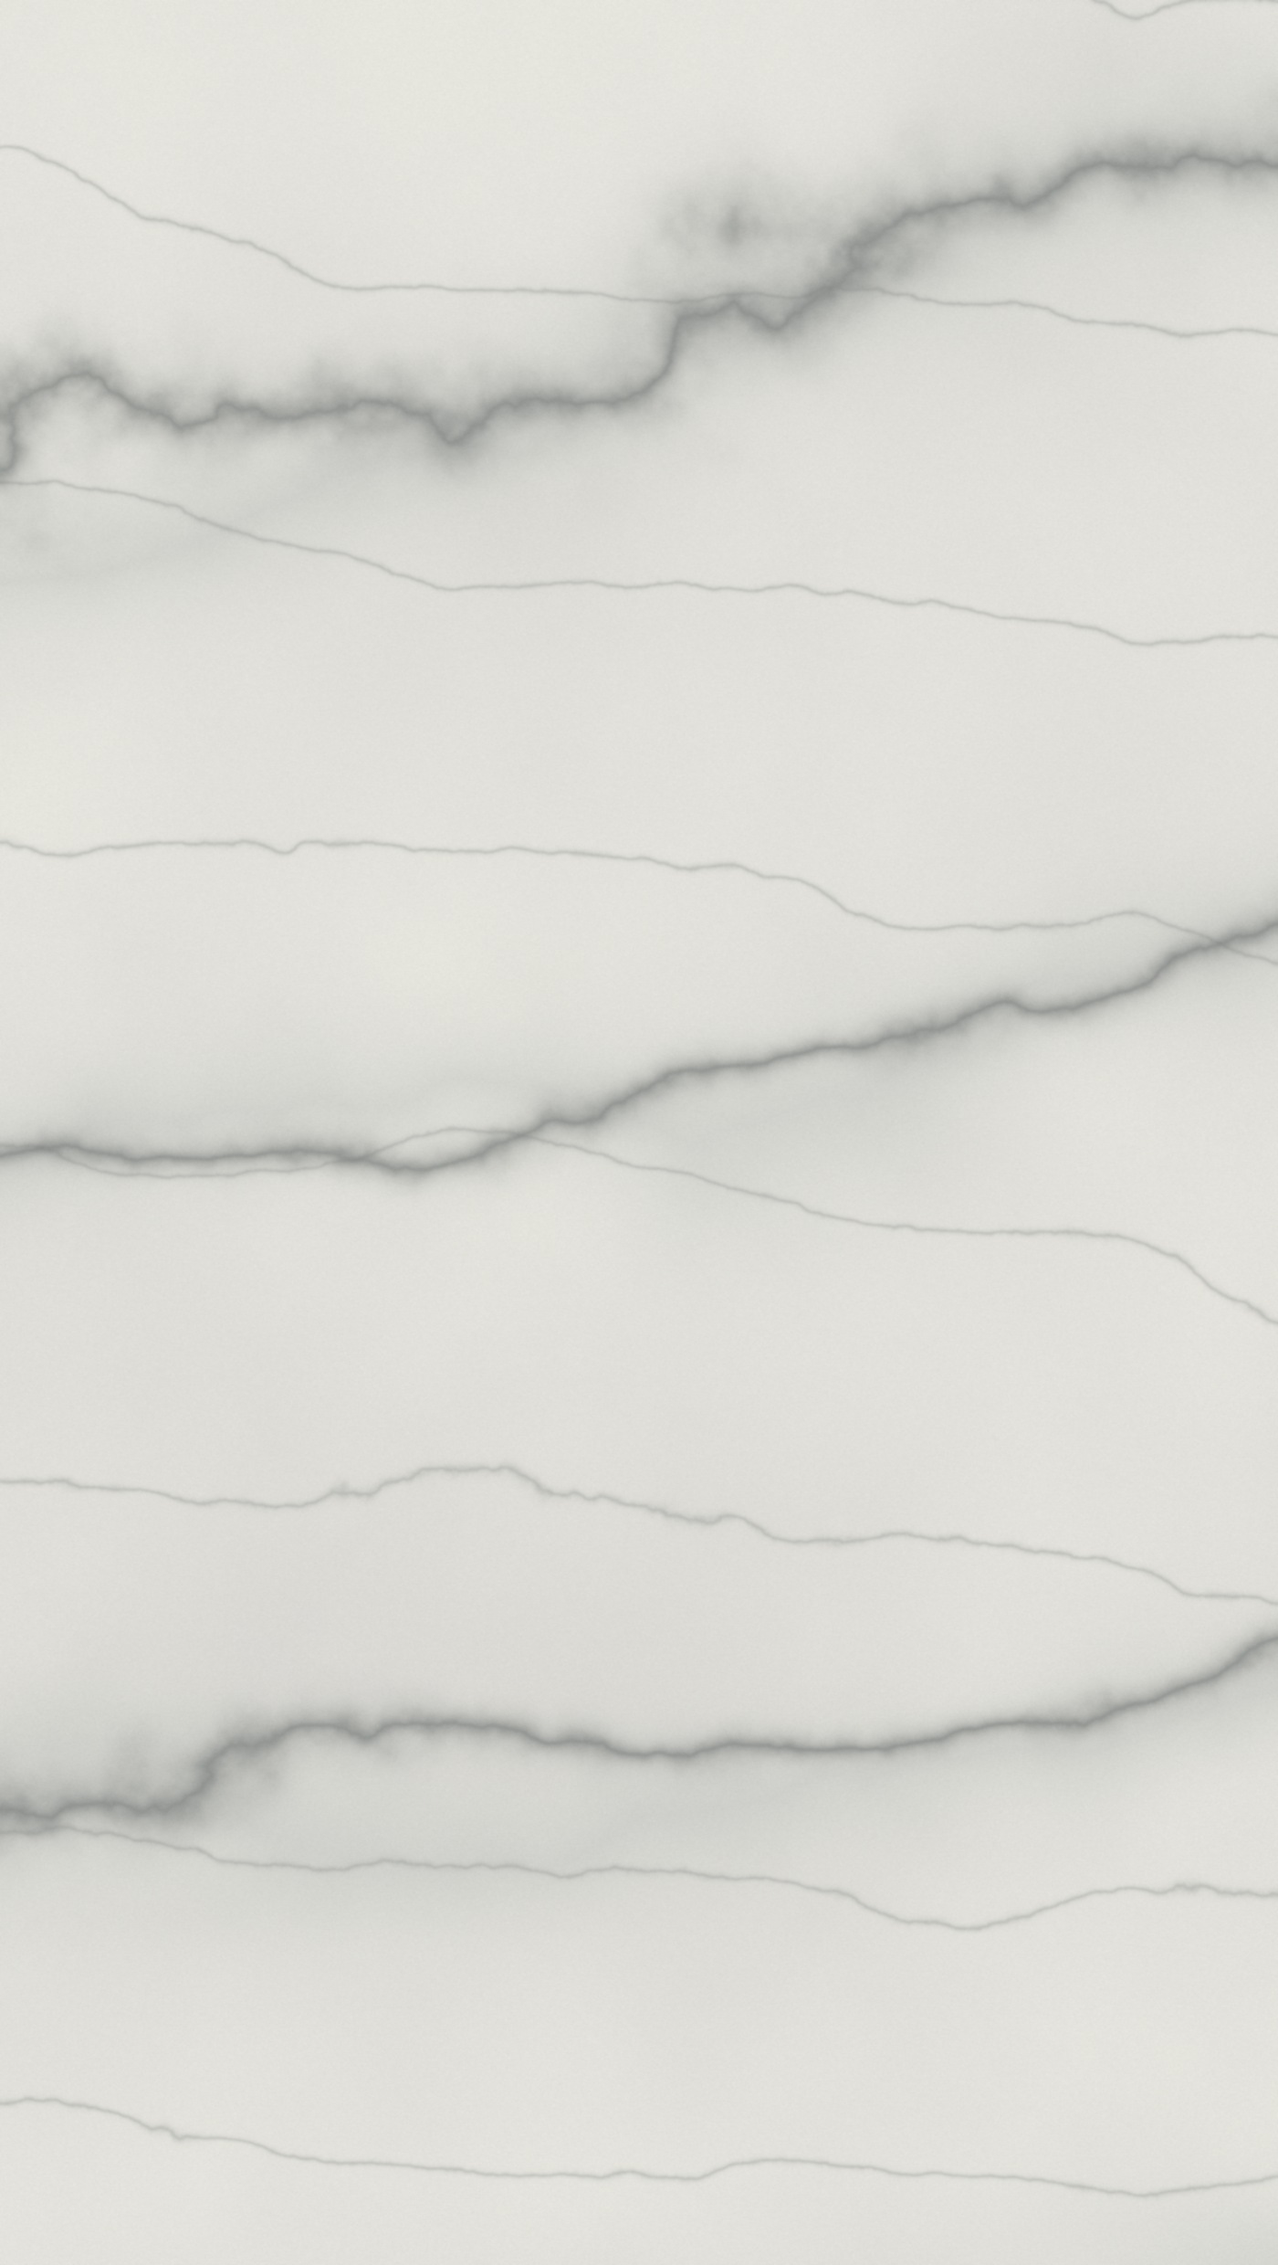
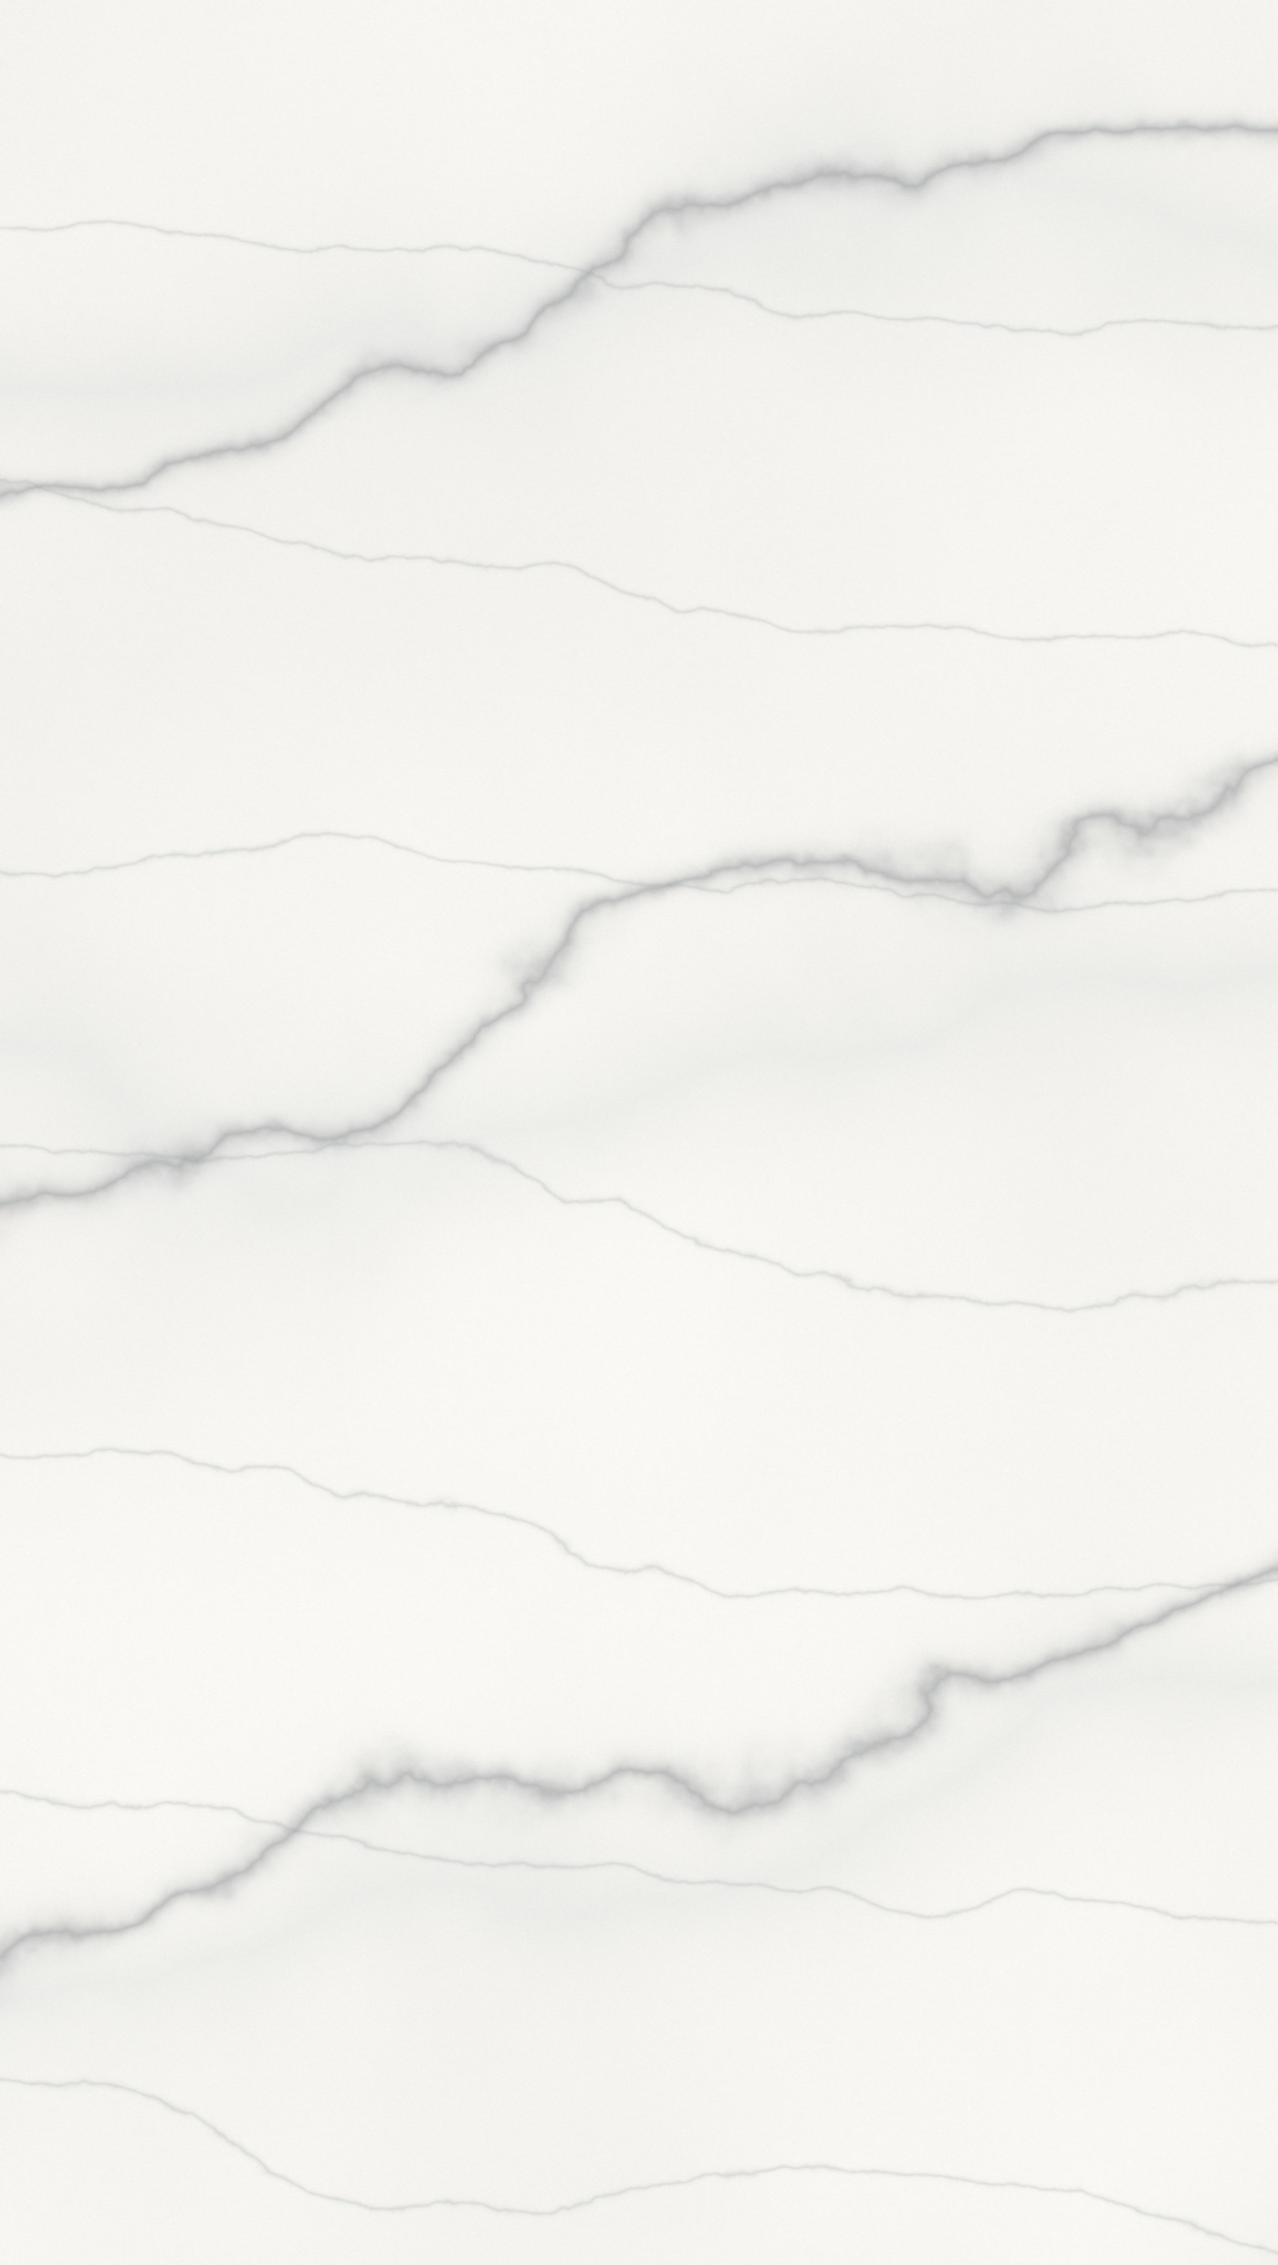
Versão 3D v2: Crystal Mint, Marrom Imperador, Paraná branco, Preto São Gabriel e trilha upbeat
Claude-Session: https://claude.ai/code/session_01WwAaZXVwc3FWVQ9s4wcZeq

diff --git a/blackfriday-artizgran/video3d.html b/blackfriday-artizgran/video3d.html
@@ -30,7 +30,7 @@ html,body{width:1080px;height:1920px;overflow:hidden;background:#000}
 .vignette{position:absolute;inset:0;background:radial-gradient(ellipse at 50% 45%,rgba(0,0,0,0) 40%,rgba(0,0,0,.75) 100%)}
 .label{position:absolute;left:90px;right:90px;bottom:330px}
 .label .k{font-family:Montserrat;font-weight:500;font-size:24px;letter-spacing:.5em;color:#f1e6cc}
-.label .n{font-family:Cormorant;font-weight:500;font-size:132px;line-height:1;margin-top:18px;color:#fff;text-shadow:0 6px 40px rgba(0,0,0,.5)}
+.label .n{font-family:Cormorant;font-weight:500;font-size:112px;line-height:1;margin-top:18px;color:#fff;text-shadow:0 6px 40px rgba(0,0,0,.5)}
 .label .d{font-family:Cormorant;font-style:italic;font-weight:300;font-size:46px;margin-top:14px;color:#f3ead6}
 .badge{position:absolute;top:120px;left:50%;transform:translateX(-50%);padding:18px 34px;border:1.5px solid rgba(232,208,150,.85);background:rgba(10,10,10,.55);backdrop-filter:blur(6px);font-family:Montserrat;font-weight:500;font-size:24px;letter-spacing:.42em;white-space:nowrap;color:#f6e7b8}
 .btn{position:absolute;left:50%;top:1180px;transform:translateX(-50%);display:flex;align-items:center;gap:26px;padding:34px 60px;border-radius:999px;background:linear-gradient(135deg,#1f1f21,#0e0e0f);border:2px solid var(--gold2);box-shadow:0 0 0 0 rgba(212,174,98,.5),0 20px 60px rgba(0,0,0,.6);white-space:nowrap}
@@ -51,13 +51,13 @@ html,body{width:1080px;height:1920px;overflow:hidden;background:#000}
 
   <!-- Pedras -->
   <div class="layer" id="S0">
-    <div class="label"><div class="k">COLEÇÃO</div><div class="n">Quartzitos</div><div class="d">resistência com alma de joia</div></div></div>
+    <div class="label"><div class="k">QUARTZITO</div><div class="n">Crystal Mint</div><div class="d">o verde que encanta</div></div></div>
   <div class="layer" id="S1">
-    <div class="label"><div class="k">COLEÇÃO</div><div class="n">Mármores</div><div class="d">a elegância atemporal</div></div></div>
+    <div class="label"><div class="k">MÁRMORE</div><div class="n">Marrom Imperador</div><div class="d">sofisticação em tons de café</div></div></div>
   <div class="layer" id="S2">
-    <div class="label"><div class="k">DESTAQUE</div><div class="n">Mármore Paraná</div><div class="d">a nobreza da pedra brasileira</div></div></div>
+    <div class="label"><div class="k">MÁRMORE BRANCO</div><div class="n">Paraná</div><div class="d">a nobreza da pedra brasileira</div></div></div>
   <div class="layer" id="S3">
-    <div class="label"><div class="k">EXCLUSIVOS</div><div class="n">Pedras Exóticas</div><div class="d">peças únicas, como o seu projeto</div></div></div>
+    <div class="label"><div class="k">GRANITO</div><div class="n">Preto São Gabriel</div><div class="d">o clássico absoluto</div></div></div>
   <div class="layer" id="badge"><div class="badge">BLACK FRIDAY · 10% OFF</div></div>
 
   <!-- Cena 1: abertura -->

diff --git a/blackfriday-artizgran/cena3d.js b/blackfriday-artizgran/cena3d.js
@@ -57,8 +57,8 @@ function pose(m, t, { start, land, exit, rest, dir = 1, turns = 1.25, from = 4.2
 
 const slabs = {};
 window.ready3d = (async () => {
-  const [nero, q, m, pr, ex] = await Promise.all(['assets/nero.jpg', 'assets/quartzito.jpg', 'assets/marmore.jpg',
-    'assets/marmore_parana.jpg', 'assets/quartzito_exotico.jpg'].map(load));
+  const [nero, q, m, pr, ex] = await Promise.all(['assets/nero.jpg', 'assets/crystal_mint.jpg', 'assets/marmore_imperador.jpg',
+    'assets/marmore_parana.jpg', 'assets/granito_sao_gabriel.jpg'].map(load));
   slabs.nero = makeSlab(nero, 0x9a9a9a);
   slabs.nero2 = makeSlab(nero, 0x9a9a9a);
   slabs.s = [q, m, pr, ex].map(tx => makeSlab(tx));
@@ -77,9 +77,9 @@ window.render3d = t => {
     pose(s, t, { start: a - 0.15, land: a + 0.65, exit: a + sd - 0.3, rest: { x: 0, y: 0.28, z: 0.8 }, dir: i % 2 ? -1 : 1, turns: 1.25, ry: 0.28, rx: -0.06 });
   });
   // volta a chapa negra para showroom + CTA
-  pose(slabs.nero2, t, { start: 17.5, land: 18.55, rest: big, dir: -1, turns: 1.5, from: 3.2 });
+  pose(slabs.nero2, t, { start: 17.5, land: 18.45, rest: big, dir: -1, turns: 1.5, from: 3.2 });
   // reflexo dourado varrendo após cada pouso
-  const lands = [1.35, 11.25, 13.05, 14.85, 16.65, 18.55];
+  const lands = [1.35, 11.25, 13.05, 14.85, 16.65, 18.45];
   let sw = 0, sx = 0;
   for (const L of lands) { const p = prog(t, L, L + 1.1); if (p > 0 && p < 1) { sw = Math.sin(p * Math.PI) * 2.6; sx = -1.5 + 3 * p; } }
   sweep.intensity = sw; sweep.position.set(sx, sx * 0.6, 3.2);

diff --git a/blackfriday-artizgran/renderizar.js b/blackfriday-artizgran/renderizar.js
@@ -1,5 +1,5 @@
 // Renderiza video.html quadro a quadro e monta o MP4 com a trilha.
-// Uso: node renderizar.js [--page video3d.html] [--whats "(00) 00000-0000"] [--endereco "Rua X, 123 - Cidade"] [--fps 30] [--blur 2] [--hits 1.35,11.25] [--out saida.mp4] [--stills] [--continuar]
+// Uso: node renderizar.js [--page video3d.html] [--whats "(00) 00000-0000"] [--endereco "Rua X, 123 - Cidade"] [--fps 30] [--blur 2] [--hits 1.35,11.25] [--trilha gerar_trilha_upbeat.py] [--out saida.mp4] [--stills] [--continuar]
 const { chromium } = require('playwright');
 const { execFileSync } = require('child_process');
 const fs = require('fs');
@@ -55,7 +55,7 @@ const MIME = { '.html': 'text/html', '.js': 'text/javascript', '.jpg': 'image/jp
   console.log('\nquadros prontos');
   if (STILLS) return;
 
-  execFileSync('python3', [path.join(DIR, 'gerar_trilha.py'), String(DUR), ...(HITS ? [HITS] : [])], { stdio: 'inherit' });
+  execFileSync('python3', [path.join(DIR, opt('trilha', 'gerar_trilha.py')), String(DUR), ...(HITS ? [HITS] : [])], { stdio: 'inherit' });
   execFileSync('ffmpeg', ['-y', '-hide_banner', '-loglevel', 'error',
     '-framerate', String(FPS * SUB), '-i', path.join(FRAMES, 'f%05d.jpg'),
     '-i', path.join(DIR, 'assets', 'trilha.wav'),

diff --git a/blackfriday-artizgran/gerar_trilha_upbeat.py b/blackfriday-artizgran/gerar_trilha_upbeat.py
@@ -1,0 +1,224 @@
+"""Trilha original upbeat (deep/tech house elegante, ~133 bpm) sincronizada com o vídeo 3D.
+
+Uso: python3 gerar_trilha_upbeat.py [duracao_seg] [impactos_seg_separados_por_virgula]
+Saída: assets/trilha.wav
+- O "drop" acontece quando a primeira chapa pousa (1,35s); a batida fica alinhada às quedas das chapas.
+- Respiro (break) antes da seção das pedras, com subida, e novo drop na primeira pedra.
+"""
+import os, sys, wave
+import numpy as np
+
+SR = 48000
+DUR = float(sys.argv[1]) if len(sys.argv) > 1 else 25.0
+HITS = [float(x) for x in sys.argv[2].split(',')] if len(sys.argv) > 2 else [1.35, 11.25, 13.05, 14.85, 16.65, 18.45]
+N = int(SR * DUR)
+OUT = os.path.join(os.path.dirname(os.path.abspath(__file__)), "assets", "trilha.wav")
+rng = np.random.default_rng(11)
+
+BEAT = 0.45                 # 133,3 bpm: as chapas pousam a cada 4 tempos (1,8s)
+T0 = 1.35                   # primeiro tempo forte = pouso da chapa de abertura
+DROP1, BREAK, DROP2, END = 1.35, 10.35, 11.25, DUR - 1.2
+
+
+def hz(m):
+    return 440.0 * 2 ** ((m - 69) / 12)
+
+
+def lp(x, cutoff, passes=2):
+    k = max(1, int(SR / (cutoff * 2.2)))
+    ker = np.ones(k) / k
+    for _ in range(passes):
+        x = np.convolve(x, ker, mode="same")
+    return x
+
+
+def hp(x, cutoff):
+    return x - lp(x, cutoff, 1)
+
+
+def tt(sec):
+    return np.arange(int(sec * SR)) / SR
+
+
+L = np.zeros(N); R = np.zeros(N); SC = np.ones(N)  # SC = envelope de sidechain
+KL = np.zeros(N); KR = np.zeros(N)  # bumbo e impactos fora do sidechain
+
+
+def add(sig, start, pan=0.0, gain=1.0, bus=None):
+    s = int(round(start * SR))
+    if s >= N or s + len(sig) <= 0:
+        return
+    a = max(0, -s); s = max(0, s); e = min(N, s + len(sig) - a)
+    seg = sig[a:a + e - s] * gain
+    if bus is not None:
+        bus[0][s:e] += seg * np.sqrt(0.5 * (1 - pan)); bus[1][s:e] += seg * np.sqrt(0.5 * (1 + pan))
+    else:
+        L[s:e] += seg * np.sqrt(0.5 * (1 - pan)); R[s:e] += seg * np.sqrt(0.5 * (1 + pan))
+
+
+# ---------- sons
+def kick():
+    t = tt(0.42)
+    f = 46 + 110 * np.exp(-t * 32)
+    body = np.sin(2 * np.pi * np.cumsum(f) / SR) * np.exp(-t * 7.5)
+    click = hp(rng.standard_normal(len(t)), 3000) * np.exp(-t * 400) * 0.3
+    return np.tanh(1.6 * (body + click))
+
+
+def clap():
+    t = tt(0.3); n = hp(rng.standard_normal(len(t)), 900)
+    n = lp(n, 6000, 1)
+    env = np.zeros(len(t))
+    for d in (0.0, 0.011, 0.022):
+        env += np.where(t >= d, np.exp(-(t - d) * 90), 0)
+    env += np.exp(-t * 14) * 0.5
+    return n * env * 0.6
+
+
+def hat(open_=False):
+    t = tt(0.25 if open_ else 0.06)
+    n = hp(rng.standard_normal(len(t)), 7000)
+    return n * np.exp(-t * (14 if open_ else 80))
+
+
+def bass_note(m, length):
+    t = tt(length); f = hz(m)
+    s = sum(np.sin(2 * np.pi * f * k * t) / k for k in range(1, 6))
+    s = lp(s, 600, 1)
+    env = np.minimum(1, t / 0.005) * np.exp(-t * 3)
+    env[-int(0.01 * SR):] *= np.linspace(1, 0, int(0.01 * SR))
+    return np.tanh(1.5 * s * env)
+
+
+def stab(chord, length=0.32, bright=4000):
+    t = tt(length); s = np.zeros(len(t))
+    for m in chord:
+        for det in (-0.08, 0.08):
+            f = hz(m + det)
+            s += sum(np.sin(2 * np.pi * f * k * t + rng.random() * 6) / k ** 1.3 for k in range(1, 7))
+    s = lp(s, bright, 1)
+    return s * np.minimum(1, t / 0.004) * np.exp(-t * 9) / len(chord)
+
+
+def pluck(m):
+    t = tt(0.35); f = hz(m)
+    s = np.sin(2 * np.pi * f * t) + 0.5 * np.sin(2 * np.pi * 2 * f * t) * np.exp(-t * 20) + 0.2 * np.sin(2 * np.pi * 3 * f * t) * np.exp(-t * 30)
+    return s * np.minimum(1, t / 0.002) * np.exp(-t * 11)
+
+
+def pad(chord, length):
+    t = tt(length); s = np.zeros(len(t))
+    for m in chord:
+        for det in (-0.1, 0, 0.1):
+            f = hz(m + det)
+            s += np.sin(2 * np.pi * f * t + rng.random() * 6) + 0.3 * np.sin(4 * np.pi * f * t)
+    e = np.minimum(1, t / 0.4) * np.minimum(1, (length - t) / 0.4)
+    return s * e / (3 * len(chord))
+
+
+def impact():
+    t = tt(1.8)
+    f = 80 * np.exp(-t * 2) + 34
+    boom = np.sin(2 * np.pi * np.cumsum(f) / SR) * np.exp(-t * 2.6)
+    sh = lp(hp(rng.standard_normal(len(t)), 2000), 9000, 1) * np.exp(-t * 6) * 0.25
+    return boom + sh
+
+
+def riser(length):
+    t = tt(length); p = t / length
+    n = rng.standard_normal(len(t))
+    lo = lp(n, 900); hi = hp(n, 3000)
+    s = (lo * (1 - p) + hi * p) * p ** 2
+    tone = np.sin(2 * np.pi * np.cumsum(200 + 1400 * p ** 2) / SR) * p ** 3 * 0.25
+    return s * 0.8 + tone
+
+
+# ---------- harmonia: Am9 – Fmaj9 – C(add9) – G6, 2 compassos cada
+CH = [[57, 60, 64, 67, 71], [53, 57, 60, 64, 67], [48, 55, 60, 62, 64], [55, 59, 62, 64, 67]]
+ROOT = [45, 41, 48, 43]
+BAR = BEAT * 4
+
+
+def chord_at(t):
+    i = int(np.floor((t - T0) / (BAR * 2))) % 4
+    return i
+
+
+K = kick(); C = clap(); HC = hat(); HO = hat(True)
+
+# introdução: pad filtrado + subida até o primeiro pouso
+add(lp(pad(CH[0], DROP1 + 0.4), 900), 0, gain=0.5)
+add(riser(DROP1), 0, gain=0.35)
+
+beats = np.arange(T0, END + 1e-6, BEAT)
+for b in beats:
+    in_break = BREAK <= b < DROP2
+    n = int(round((b - T0) / BEAT))
+    ci = chord_at(b)
+    if not in_break:
+        add(K, b, gain=0.95, bus=(KL, KR))
+        s = int(b * SR); e = min(N, s + int(0.3 * SR))
+        SC[s:e] = np.minimum(SC[s:e], 0.25 + 0.75 * (np.arange(e - s) / (0.3 * SR)) ** 0.6)
+        if n % 2 == 1:
+            add(C, b, gain=0.55, pan=0.05)
+        # baixo no contratempo (estilo house)
+        add(bass_note(ROOT[ci] + (12 if n % 4 == 3 else 0), BEAT * 0.45), b + BEAT / 2, gain=0.42)
+        add(HO, b + BEAT / 2, gain=0.12, pan=0.25)
+    # chimbal em semicolcheias com dinâmica
+    for k in range(4):
+        vel = [0.08, 0.04, 0.1, 0.05][k] * (0.5 if in_break else 1)
+        add(HC, b + k * BEAT / 4, gain=vel, pan=-0.3)
+    # stabs sincopados
+    if not in_break and n % 4 in (0, 2):
+        off = [0.75, 1.5][(n // 2) % 2] * BEAT
+        add(stab(CH[ci]), b + off, gain=0.32, pan=0.2 if n % 8 < 4 else -0.2)
+
+# pad contínuo (com sidechain) a partir do drop
+pos = T0
+while pos < END:
+    ci = chord_at(pos + 0.01); ln = min(BAR * 2, END + 1 - pos)
+    add(pad(CH[ci], ln + 0.3), pos, gain=0.28, pan=0.0)
+    pos += BAR * 2
+
+# arpejo cristalino na seção das pedras e no final
+for k, b in enumerate(np.arange(DROP2, END, BEAT / 2)):
+    ci = chord_at(b); notes = [m + 12 for m in CH[ci][1:]]
+    add(pluck(notes[k % len(notes)]), b, gain=0.07, pan=0.6 * np.sin(k * 0.9))
+
+# break com subida antes das pedras
+add(riser(DROP2 - BREAK), BREAK, gain=0.45)
+
+# impactos nos pousos das chapas + final
+for h in HITS:
+    add(impact(), h, gain=0.55, bus=(KL, KR))
+add(impact(), END, gain=0.7, bus=(KL, KR))
+add(pad(CH[0], 2.0), END, gain=0.35)
+
+# aplica sidechain no mix (o bumbo e os impactos ficam de fora)
+SC = lp(SC, 200, 1)
+L *= 0.6 + 0.4 * SC; R *= 0.6 + 0.4 * SC
+L += KL; R += KR
+
+# reverb curto
+ir = rng.standard_normal(int(1.2 * SR)) * np.exp(-tt(1.2) * 5)
+ir = lp(ir, 6000, 1)
+
+
+def conv(x):
+    nfft = 1 << int(np.ceil(np.log2(len(x) + len(ir))))
+    return np.fft.irfft(np.fft.rfft(x, nfft) * np.fft.rfft(ir, nfft), nfft)[:len(x)]
+
+
+wl, wr = conv(L), conv(R)
+pk = max(np.abs(L).max(), np.abs(R).max())
+wl *= pk / (np.abs(wl).max() + 1e-9) * 0.18; wr *= pk / (np.abs(wr).max() + 1e-9) * 0.18
+L2, R2 = L + wl, R + wr
+fade = np.ones(N); fo = int(1.0 * SR); fade[-fo:] = np.linspace(1, 0, fo) ** 1.5
+L2 *= fade; R2 *= fade
+pk = max(np.abs(L2).max(), np.abs(R2).max())
+L2 = np.tanh(1.8 * L2 / pk) * 0.89; R2 = np.tanh(1.8 * R2 / pk) * 0.89
+
+with wave.open(OUT, "wb") as w:
+    w.setnchannels(2); w.setsampwidth(2); w.setframerate(SR)
+    w.writeframes((np.stack([L2, R2], 1) * 32767).astype(np.int16).tobytes())
+print("ok", OUT)

diff --git a/blackfriday-artizgran/gerar_texturas.py b/blackfriday-artizgran/gerar_texturas.py
@@ -119,5 +119,57 @@ def patagonia(seed=5):
     save(arr, "quartzito_exotico.jpg", blur=0.8)
 
 
+def crystal_mint(seed=6):
+    """Quartzito Crystal Mint: verde-menta translúcido com faixas verdes e veios cristalinos brancos."""
+    rng = np.random.default_rng(seed)
+    band = veins(W, H, rng, 70, 0.0018, 3.2, 1.6, base=1000, octaves=6)
+    deep = veins(W, H, rng, 66, 0.0035, 3.0, 8, base=800, octaves=8)
+    v1 = veins(W, H, rng, 72, 0.0026, 3.4, 40, base=900, octaves=8)
+    v2 = veins(W, H, rng, 62, 0.007, 2.6, 70, base=600, octaves=8)
+    spark = np.clip((rng.random((H, W)) - 0.9965) * 300, 0, 1).astype(np.float32)
+    arr = colorize([(band, (128, 182, 160), 0.7), (deep, (70, 138, 118), 0.65),
+                    (v2, (214, 236, 226), 0.55), (v1, (246, 252, 248), 0.9), (spark, (255, 255, 255), 0.6)],
+                   (182, 214, 198), (30, 34, 30), rng)
+    save(arr, "crystal_mint.jpg")
+
+
+def imperador(seed=7):
+    """Mármore Marrom Imperador: café/chocolate com rede de veios claros."""
+    rng = np.random.default_rng(seed)
+    haze = veins(W, H, rng, 50, 0.003, 3.0, 2.5, base=800, octaves=5)
+    v1 = veins(W, H, rng, 50, 0.004, 3.4, 26, base=700, octaves=8)
+    v2 = veins(W, H, rng, -35, 0.009, 3.0, 50, base=400, octaves=8)
+    v3 = veins(W, H, rng, 15, 0.014, 2.6, 80, base=300, octaves=8)
+    arr = colorize([(haze, (70, 46, 32), 0.6), (v3, (150, 118, 90), 0.5),
+                    (v2, (190, 160, 128), 0.65), (v1, (226, 206, 178), 0.85)],
+                   (98, 66, 46), (30, 20, 14), rng, 0.025)
+    save(arr, "marmore_imperador.jpg")
+
+
+def parana_branco(seed=8):
+    """Mármore Paraná branco: fundo branco luminoso com veios cinza suaves."""
+    rng = np.random.default_rng(seed)
+    haze = veins(W, H, rng, 80, 0.004, 2.6, 3, base=800, octaves=5)
+    v1 = veins(W, H, rng, 80, 0.004, 2.6, 22, base=800, octaves=8)
+    v2 = veins(W, H, rng, 95, 0.009, 2.2, 55, base=500, octaves=8)
+    arr = colorize([(haze, (226, 227, 226), 0.5), (v2, (178, 181, 182), 0.45),
+                    (v1, (150, 154, 156), 0.6)], (246, 245, 241), (10, 10, 9), rng, 0.02)
+    save(arr, "marmore_parana.jpg", blur=0.9)
+
+
+def sao_gabriel(seed=9):
+    """Granito Preto São Gabriel: preto com grãos finos cinza e pontos brilhantes."""
+    rng = np.random.default_rng(seed)
+    g1 = np.clip((value_noise(W, H, 4, rng) - 0.78) * 6, 0, 1)
+    g2 = np.clip((value_noise(W, H, 3, rng) - 0.86) * 9, 0, 1)
+    g3 = np.clip((value_noise(W, H, 7, rng) - 0.82) * 5, 0, 1)
+    spark = np.clip((rng.random((H, W)) - 0.997) * 300, 0, 1).astype(np.float32)
+    arr = colorize([(g3, (48, 48, 50), 0.8), (g1, (84, 84, 86), 0.75),
+                    (g2, (138, 138, 140), 0.7), (spark, (220, 220, 222), 0.8)],
+                   (18, 18, 20), (8, 8, 8), rng, 0.03)
+    save(arr, "granito_sao_gabriel.jpg", blur=0.5)
+
+
 if __name__ == "__main__":
     nero(); carrara(); parana(); taj(); patagonia()
+    crystal_mint(); imperador(); parana_branco(); sao_gabriel()
